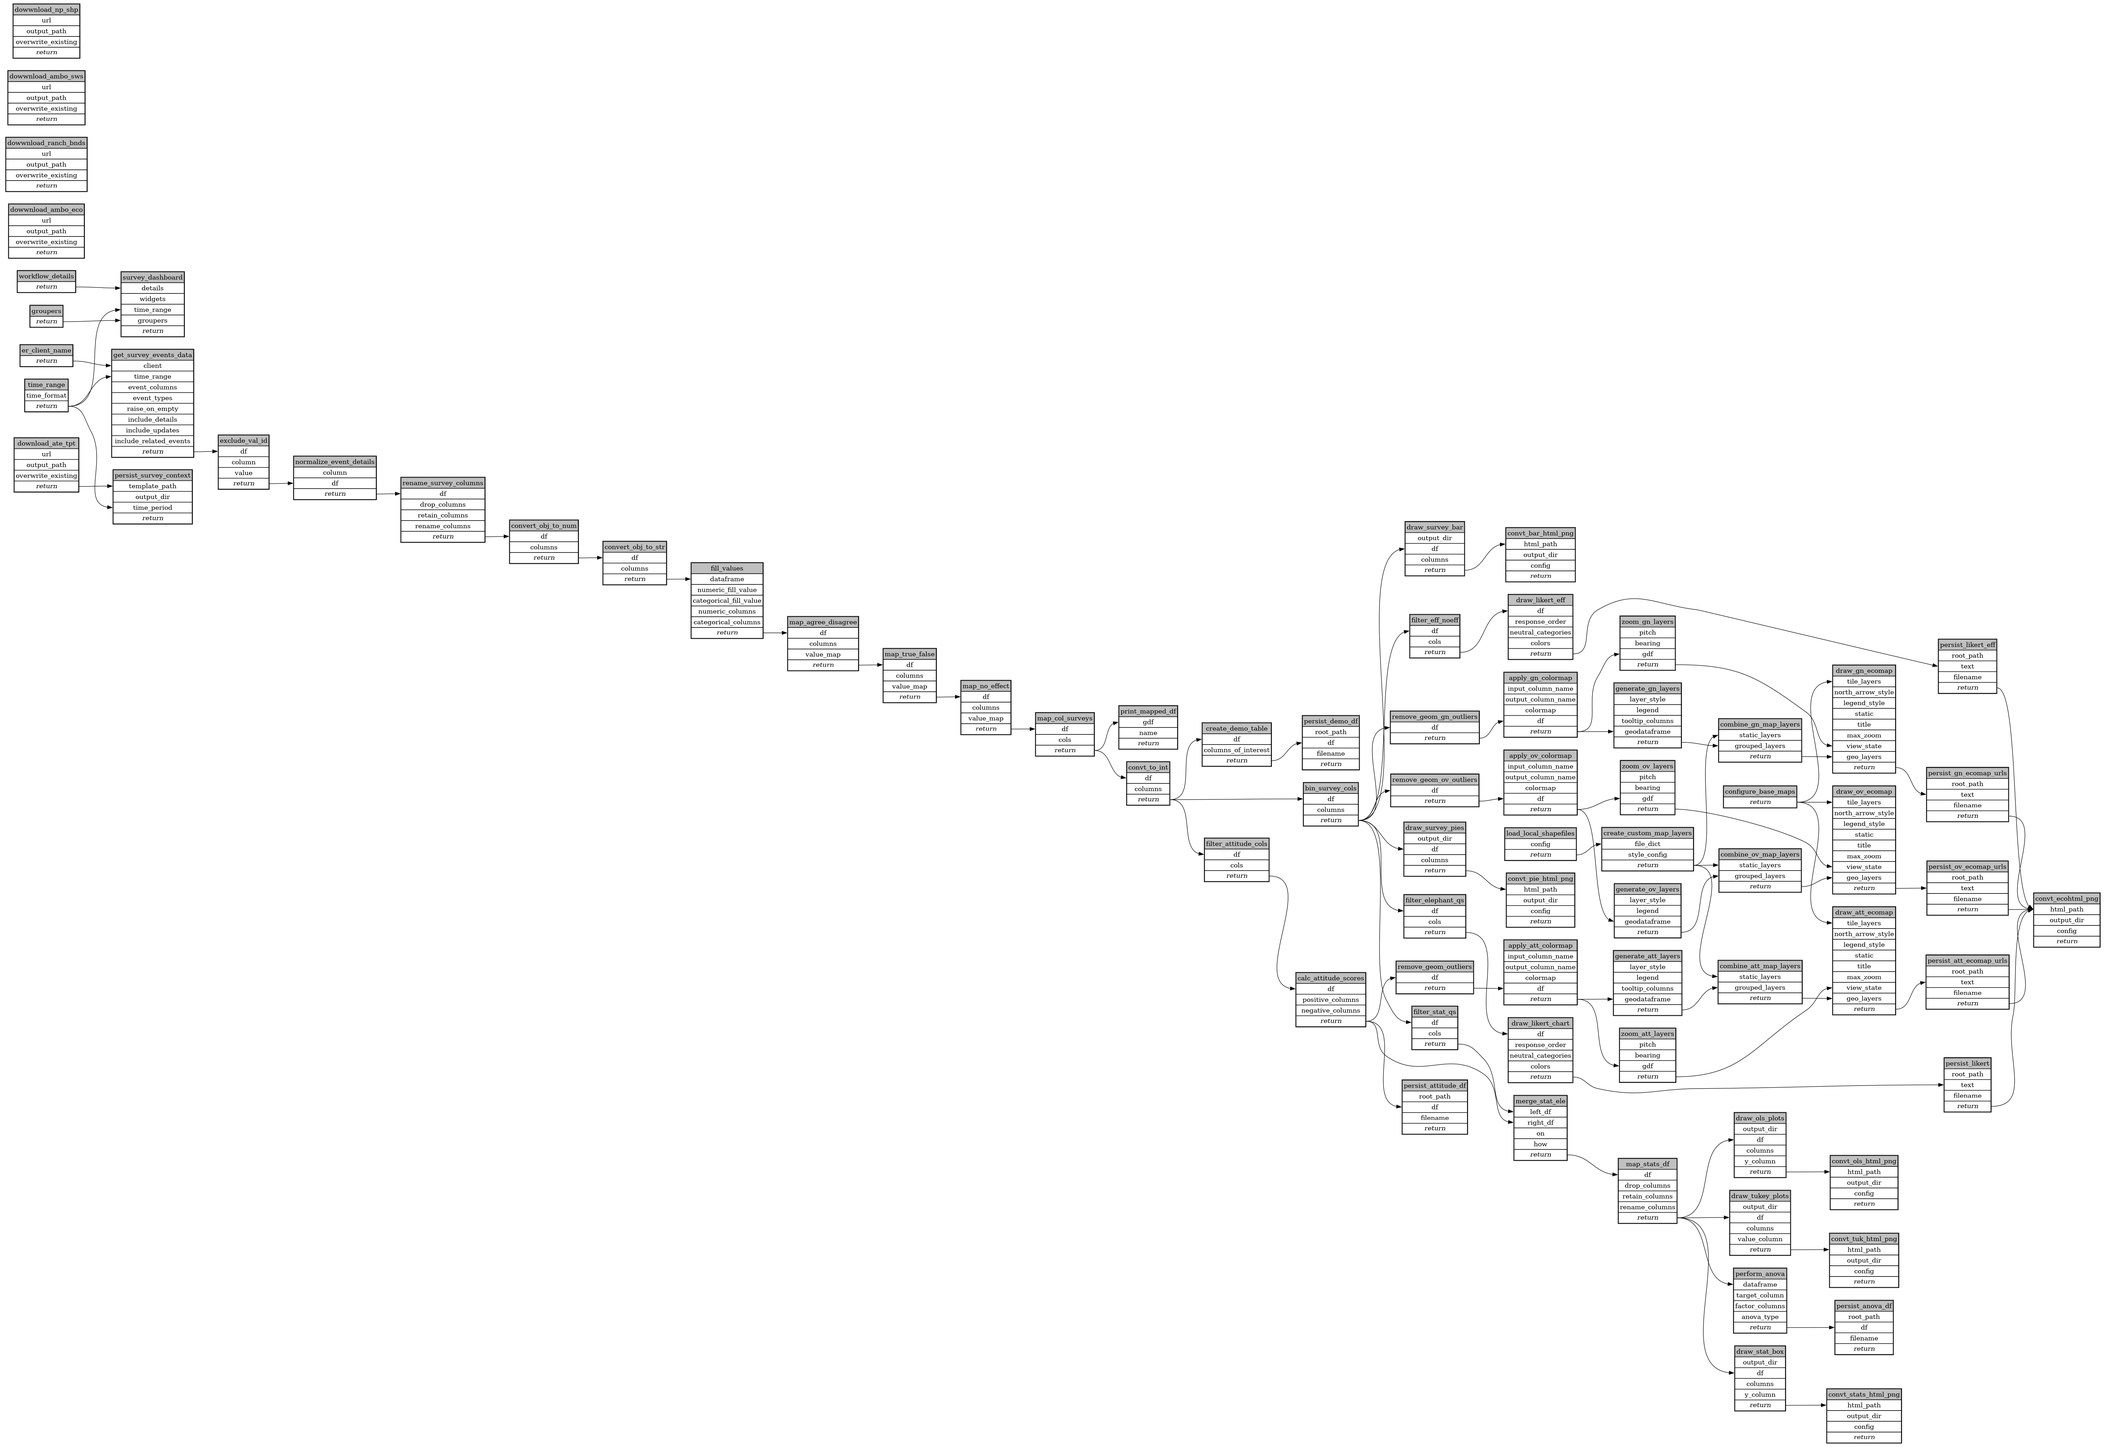
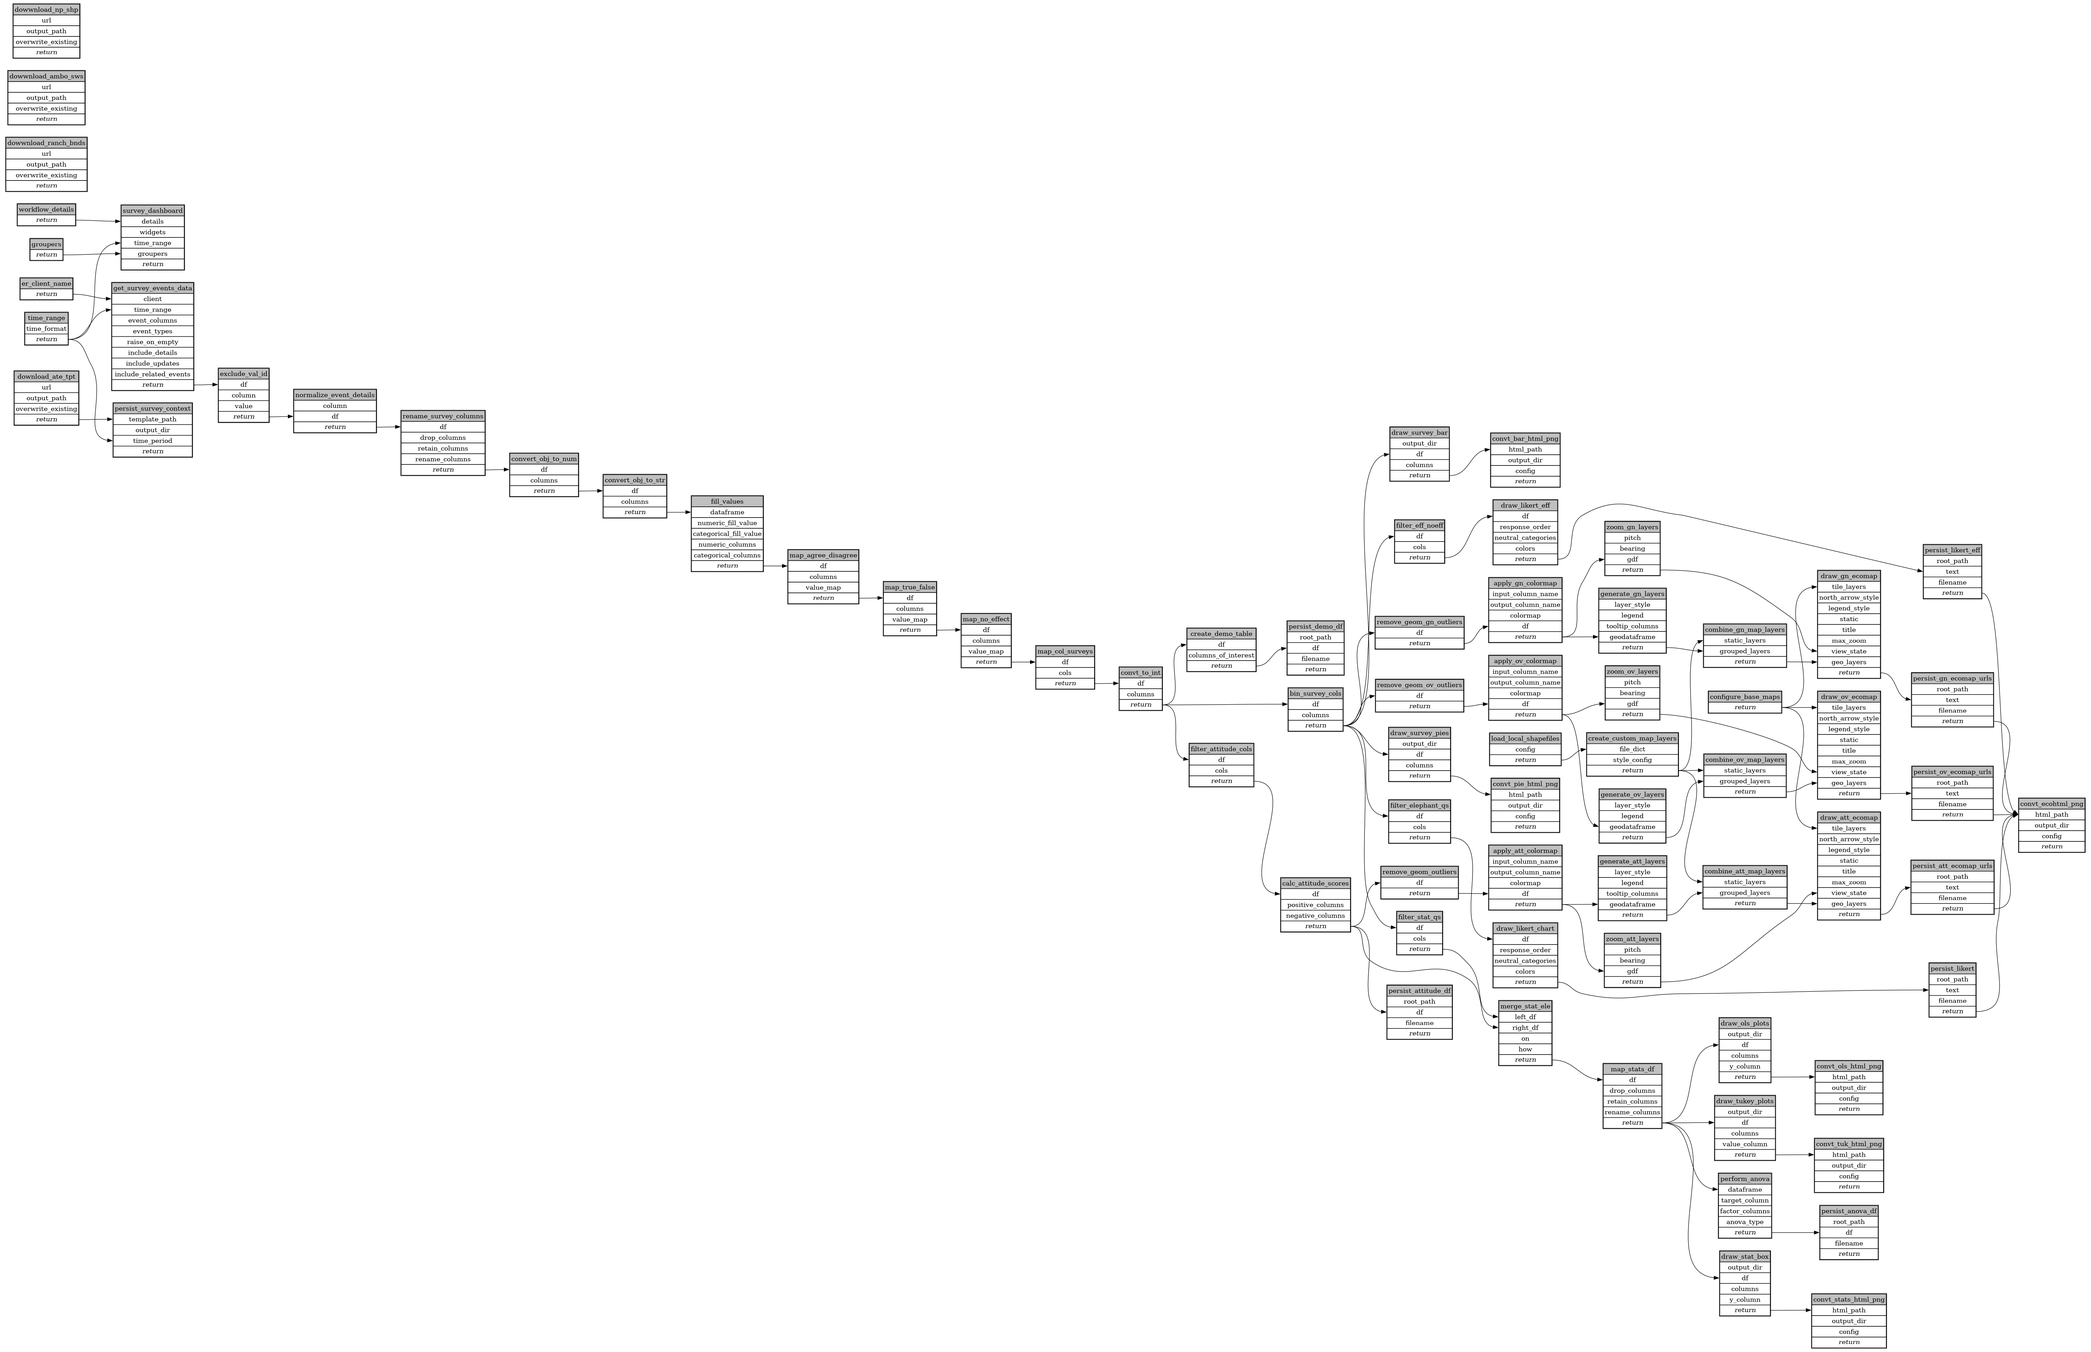
remove unnecessary print info

Changed region(s): [[0.0, 0.0, 0.9992, 1.0]]

diff --git a/workflows/ate_survey/ecoscope-workflows-ate-survey-workflow/ecoscope_workflows_ate_survey_workflow/dags/run_async.py b/workflows/ate_survey/ecoscope-workflows-ate-survey-workflow/ecoscope_workflows_ate_survey_workflow/dags/run_async.py
@@ -37,7 +37,6 @@ from ecoscope_workflows_ext_ate.tasks import (
     merge_dataframes,
     perform_anova_analysis,
     persist_survey_word,
-    view_df,
     zhtml_to_png,
 )
 from ecoscope_workflows_ext_ecoscope.tasks.io import get_events, persist_df
@@ -64,7 +63,6 @@ def main(params: Params):
         "er_client_name": [],
         "configure_base_maps": [],
         "download_ate_tpt": [],
-        "dowwnload_ambo_eco": [],
         "dowwnload_ranch_bnds": [],
         "dowwnload_ambo_sws": [],
         "dowwnload_np_shp": [],
@@ -81,7 +79,6 @@ def main(params: Params):
         "map_true_false": ["map_agree_disagree"],
         "map_no_effect": ["map_true_false"],
         "map_col_surveys": ["map_no_effect"],
-        "print_mapped_df": ["map_col_surveys"],
         "convt_to_int": ["map_col_surveys"],
         "create_demo_table": ["convt_to_int"],
         "persist_demo_df": ["create_demo_table"],
@@ -198,23 +195,11 @@ def main(params: Params):
             .handle_errors(task_instance_id="download_ate_tpt")
             .set_executor("lithops"),
             partial={
-                "url": "https://www.dropbox.com/scl/fi/1tau1alt2woo5c4efjjp3/ate_survey_template_v2.docx?rlkey=1f2h9tnp2eb9jxao70zt2xll1&st=8zjovig4&dl=0",
+                "url": "https://www.dropbox.com/scl/fi/8tw4x0a2rqagz5nb2nrvp/ate_survey_template_v5.docx?rlkey=o81prd8u97hlaeu95hnly7ze5&st=urhz1pc5&dl=0",
                 "output_path": os.environ["ECOSCOPE_WORKFLOWS_RESULTS"],
                 "overwrite_existing": False,
             }
             | (params_dict.get("download_ate_tpt") or {}),
-            method="call",
-        ),
-        "dowwnload_ambo_eco": Node(
-            async_task=download_file_and_persist.validate()
-            .handle_errors(task_instance_id="dowwnload_ambo_eco")
-            .set_executor("lithops"),
-            partial={
-                "url": "https://www.dropbox.com/scl/fi/3yvgk7va9pxm1k3qe5aue/Amboseli-Ecosystem.gpkg?rlkey=nx9udkzvghxxz76rzl5dgx922&st=14pq6124&dl=0",
-                "output_path": os.environ["ECOSCOPE_WORKFLOWS_RESULTS"],
-                "overwrite_existing": False,
-            }
-            | (params_dict.get("dowwnload_ambo_eco") or {}),
             method="call",
         ),
         "dowwnload_ranch_bnds": Node(
@@ -746,17 +731,6 @@ def main(params: Params):
                 ],
             }
             | (params_dict.get("map_col_surveys") or {}),
-            method="call",
-        ),
-        "print_mapped_df": Node(
-            async_task=view_df.validate()
-            .handle_errors(task_instance_id="print_mapped_df")
-            .set_executor("lithops"),
-            partial={
-                "gdf": DependsOn("map_col_surveys"),
-                "name": "View presently mapped df",
-            }
-            | (params_dict.get("print_mapped_df") or {}),
             method="call",
         ),
         "convt_to_int": Node(

diff --git a/workflows/ate_survey/ecoscope-workflows-ate-survey-workflow/ecoscope_workflows_ate_survey_workflow/dags/run_async_mock_io.py b/workflows/ate_survey/ecoscope-workflows-ate-survey-workflow/ecoscope_workflows_ate_survey_workflow/dags/run_async_mock_io.py
@@ -56,7 +56,6 @@ from ecoscope_workflows_ext_ate.tasks import (
     merge_dataframes,
     perform_anova_analysis,
     persist_survey_word,
-    view_df,
     zhtml_to_png,
 )
 from ecoscope_workflows_ext_ecoscope.tasks.io import persist_df
@@ -84,7 +83,6 @@ def main(params: Params):
         "er_client_name": [],
         "configure_base_maps": [],
         "download_ate_tpt": [],
-        "dowwnload_ambo_eco": [],
         "dowwnload_ranch_bnds": [],
         "dowwnload_ambo_sws": [],
         "dowwnload_np_shp": [],
@@ -101,7 +99,6 @@ def main(params: Params):
         "map_true_false": ["map_agree_disagree"],
         "map_no_effect": ["map_true_false"],
         "map_col_surveys": ["map_no_effect"],
-        "print_mapped_df": ["map_col_surveys"],
         "convt_to_int": ["map_col_surveys"],
         "create_demo_table": ["convt_to_int"],
         "persist_demo_df": ["create_demo_table"],
@@ -218,23 +215,11 @@ def main(params: Params):
             .handle_errors(task_instance_id="download_ate_tpt")
             .set_executor("lithops"),
             partial={
-                "url": "https://www.dropbox.com/scl/fi/1tau1alt2woo5c4efjjp3/ate_survey_template_v2.docx?rlkey=1f2h9tnp2eb9jxao70zt2xll1&st=8zjovig4&dl=0",
+                "url": "https://www.dropbox.com/scl/fi/8tw4x0a2rqagz5nb2nrvp/ate_survey_template_v5.docx?rlkey=o81prd8u97hlaeu95hnly7ze5&st=urhz1pc5&dl=0",
                 "output_path": os.environ["ECOSCOPE_WORKFLOWS_RESULTS"],
                 "overwrite_existing": False,
             }
             | (params_dict.get("download_ate_tpt") or {}),
-            method="call",
-        ),
-        "dowwnload_ambo_eco": Node(
-            async_task=download_file_and_persist.validate()
-            .handle_errors(task_instance_id="dowwnload_ambo_eco")
-            .set_executor("lithops"),
-            partial={
-                "url": "https://www.dropbox.com/scl/fi/3yvgk7va9pxm1k3qe5aue/Amboseli-Ecosystem.gpkg?rlkey=nx9udkzvghxxz76rzl5dgx922&st=14pq6124&dl=0",
-                "output_path": os.environ["ECOSCOPE_WORKFLOWS_RESULTS"],
-                "overwrite_existing": False,
-            }
-            | (params_dict.get("dowwnload_ambo_eco") or {}),
             method="call",
         ),
         "dowwnload_ranch_bnds": Node(
@@ -766,17 +751,6 @@ def main(params: Params):
                 ],
             }
             | (params_dict.get("map_col_surveys") or {}),
-            method="call",
-        ),
-        "print_mapped_df": Node(
-            async_task=view_df.validate()
-            .handle_errors(task_instance_id="print_mapped_df")
-            .set_executor("lithops"),
-            partial={
-                "gdf": DependsOn("map_col_surveys"),
-                "name": "View presently mapped df",
-            }
-            | (params_dict.get("print_mapped_df") or {}),
             method="call",
         ),
         "convt_to_int": Node(

diff --git a/workflows/ate_survey/ecoscope-workflows-ate-survey-workflow/ecoscope_workflows_ate_survey_workflow/dags/jupytext.py b/workflows/ate_survey/ecoscope-workflows-ate-survey-workflow/ecoscope_workflows_ate_survey_workflow/dags/jupytext.py
@@ -46,7 +46,6 @@ from ecoscope_workflows_ext_ate.tasks import (
     merge_dataframes,
     perform_anova_analysis,
     persist_survey_word,
-    view_df,
     zhtml_to_png,
 )
 from ecoscope_workflows_ext_ecoscope.tasks.io import get_events, persist_df
@@ -187,37 +186,10 @@ download_ate_tpt_params = dict(
 download_ate_tpt = (
     download_file_and_persist.handle_errors(task_instance_id="download_ate_tpt")
     .partial(
-        url="https://www.dropbox.com/scl/fi/1tau1alt2woo5c4efjjp3/ate_survey_template_v2.docx?rlkey=1f2h9tnp2eb9jxao70zt2xll1&st=8zjovig4&dl=0",
+        url="https://www.dropbox.com/scl/fi/8tw4x0a2rqagz5nb2nrvp/ate_survey_template_v5.docx?rlkey=o81prd8u97hlaeu95hnly7ze5&st=urhz1pc5&dl=0",
         output_path=os.environ["ECOSCOPE_WORKFLOWS_RESULTS"],
         overwrite_existing=False,
         **download_ate_tpt_params,
-    )
-    .call()
-)
-
-
-# %% [markdown]
-# ## Download amboseli ecosystem shapefiles
-
-# %%
-# parameters
-
-dowwnload_ambo_eco_params = dict(
-    retries=...,
-    unzip=...,
-)
-
-# %%
-# call the task
-
-
-dowwnload_ambo_eco = (
-    download_file_and_persist.handle_errors(task_instance_id="dowwnload_ambo_eco")
-    .partial(
-        url="https://www.dropbox.com/scl/fi/3yvgk7va9pxm1k3qe5aue/Amboseli-Ecosystem.gpkg?rlkey=nx9udkzvghxxz76rzl5dgx922&st=14pq6124&dl=0",
-        output_path=os.environ["ECOSCOPE_WORKFLOWS_RESULTS"],
-        overwrite_existing=False,
-        **dowwnload_ambo_eco_params,
     )
     .call()
 )
@@ -950,27 +922,6 @@ map_col_surveys = (
             "Receive livelihood benefits from elephants",
         ],
         **map_col_surveys_params,
-    )
-    .call()
-)
-
-
-# %% [markdown]
-# ## Print mapped values
-
-# %%
-# parameters
-
-print_mapped_df_params = dict()
-
-# %%
-# call the task
-
-
-print_mapped_df = (
-    view_df.handle_errors(task_instance_id="print_mapped_df")
-    .partial(
-        gdf=map_col_surveys, name="View presently mapped df", **print_mapped_df_params
     )
     .call()
 )

diff --git a/workflows/ate_survey/ecoscope-workflows-ate-survey-workflow/ecoscope_workflows_ate_survey_workflow/dags/run_sequential.py b/workflows/ate_survey/ecoscope-workflows-ate-survey-workflow/ecoscope_workflows_ate_survey_workflow/dags/run_sequential.py
@@ -36,7 +36,6 @@ from ecoscope_workflows_ext_ate.tasks import (
     merge_dataframes,
     perform_anova_analysis,
     persist_survey_word,
-    view_df,
     zhtml_to_png,
 )
 from ecoscope_workflows_ext_ecoscope.tasks.io import get_events, persist_df
@@ -97,22 +96,10 @@ def main(params: Params):
         download_file_and_persist.validate()
         .handle_errors(task_instance_id="download_ate_tpt")
         .partial(
-            url="https://www.dropbox.com/scl/fi/1tau1alt2woo5c4efjjp3/ate_survey_template_v2.docx?rlkey=1f2h9tnp2eb9jxao70zt2xll1&st=8zjovig4&dl=0",
+            url="https://www.dropbox.com/scl/fi/8tw4x0a2rqagz5nb2nrvp/ate_survey_template_v5.docx?rlkey=o81prd8u97hlaeu95hnly7ze5&st=urhz1pc5&dl=0",
             output_path=os.environ["ECOSCOPE_WORKFLOWS_RESULTS"],
             overwrite_existing=False,
             **(params_dict.get("download_ate_tpt") or {}),
-        )
-        .call()
-    )
-
-    dowwnload_ambo_eco = (
-        download_file_and_persist.validate()
-        .handle_errors(task_instance_id="dowwnload_ambo_eco")
-        .partial(
-            url="https://www.dropbox.com/scl/fi/3yvgk7va9pxm1k3qe5aue/Amboseli-Ecosystem.gpkg?rlkey=nx9udkzvghxxz76rzl5dgx922&st=14pq6124&dl=0",
-            output_path=os.environ["ECOSCOPE_WORKFLOWS_RESULTS"],
-            overwrite_existing=False,
-            **(params_dict.get("dowwnload_ambo_eco") or {}),
         )
         .call()
     )
@@ -638,17 +625,6 @@ def main(params: Params):
                 "Receive livelihood benefits from elephants",
             ],
             **(params_dict.get("map_col_surveys") or {}),
-        )
-        .call()
-    )
-
-    print_mapped_df = (
-        view_df.validate()
-        .handle_errors(task_instance_id="print_mapped_df")
-        .partial(
-            gdf=map_col_surveys,
-            name="View presently mapped df",
-            **(params_dict.get("print_mapped_df") or {}),
         )
         .call()
     )

diff --git a/workflows/ate_survey/ecoscope-workflows-ate-survey-workflow/ecoscope_workflows_ate_survey_workflow/dags/run_sequential_mock_io.py b/workflows/ate_survey/ecoscope-workflows-ate-survey-workflow/ecoscope_workflows_ate_survey_workflow/dags/run_sequential_mock_io.py
@@ -55,7 +55,6 @@ from ecoscope_workflows_ext_ate.tasks import (
     merge_dataframes,
     perform_anova_analysis,
     persist_survey_word,
-    view_df,
     zhtml_to_png,
 )
 from ecoscope_workflows_ext_ecoscope.tasks.io import persist_df
@@ -117,22 +116,10 @@ def main(params: Params):
         download_file_and_persist.validate()
         .handle_errors(task_instance_id="download_ate_tpt")
         .partial(
-            url="https://www.dropbox.com/scl/fi/1tau1alt2woo5c4efjjp3/ate_survey_template_v2.docx?rlkey=1f2h9tnp2eb9jxao70zt2xll1&st=8zjovig4&dl=0",
+            url="https://www.dropbox.com/scl/fi/8tw4x0a2rqagz5nb2nrvp/ate_survey_template_v5.docx?rlkey=o81prd8u97hlaeu95hnly7ze5&st=urhz1pc5&dl=0",
             output_path=os.environ["ECOSCOPE_WORKFLOWS_RESULTS"],
             overwrite_existing=False,
             **(params_dict.get("download_ate_tpt") or {}),
-        )
-        .call()
-    )
-
-    dowwnload_ambo_eco = (
-        download_file_and_persist.validate()
-        .handle_errors(task_instance_id="dowwnload_ambo_eco")
-        .partial(
-            url="https://www.dropbox.com/scl/fi/3yvgk7va9pxm1k3qe5aue/Amboseli-Ecosystem.gpkg?rlkey=nx9udkzvghxxz76rzl5dgx922&st=14pq6124&dl=0",
-            output_path=os.environ["ECOSCOPE_WORKFLOWS_RESULTS"],
-            overwrite_existing=False,
-            **(params_dict.get("dowwnload_ambo_eco") or {}),
         )
         .call()
     )
@@ -658,17 +645,6 @@ def main(params: Params):
                 "Receive livelihood benefits from elephants",
             ],
             **(params_dict.get("map_col_surveys") or {}),
-        )
-        .call()
-    )
-
-    print_mapped_df = (
-        view_df.validate()
-        .handle_errors(task_instance_id="print_mapped_df")
-        .partial(
-            gdf=map_col_surveys,
-            name="View presently mapped df",
-            **(params_dict.get("print_mapped_df") or {}),
         )
         .call()
     )

diff --git a/workflows/ate_survey/ecoscope-workflows-ate-survey-workflow/ecoscope_workflows_ate_survey_workflow/formdata.py b/workflows/ate_survey/ecoscope-workflows-ate-survey-workflow/ecoscope_workflows_ate_survey_workflow/formdata.py
@@ -198,20 +198,6 @@ class DownloadAteTpt(BaseModel):
     )
 
 
-class DowwnloadAmboEco(BaseModel):
-    model_config = ConfigDict(
-        extra="forbid",
-    )
-    retries: Optional[conint(ge=0)] = Field(
-        3, description="Number of retries on failure", title="Retries"
-    )
-    unzip: Optional[bool] = Field(
-        False,
-        description="Whether to unzip the file if it's a zip archive",
-        title="Unzip",
-    )
-
-
 class DowwnloadRanchBnds(BaseModel):
     model_config = ConfigDict(
         extra="forbid",
@@ -502,9 +488,6 @@ class FormData(BaseModel):
     )
     download_ate_tpt: Optional[DownloadAteTpt] = Field(
         None, title="Download ATE survey template"
-    )
-    dowwnload_ambo_eco: Optional[DowwnloadAmboEco] = Field(
-        None, title="Download amboseli ecosystem shapefiles"
     )
     dowwnload_ranch_bnds: Optional[DowwnloadRanchBnds] = Field(
         None, title="Download amboseli ranch boundaries shapefiles"

diff --git a/workflows/ate_survey/ecoscope-workflows-ate-survey-workflow/ecoscope_workflows_ate_survey_workflow/params.py b/workflows/ate_survey/ecoscope-workflows-ate-survey-workflow/ecoscope_workflows_ate_survey_workflow/params.py
@@ -198,20 +198,6 @@ class DownloadAteTpt(BaseModel):
     )
 
 
-class DowwnloadAmboEco(BaseModel):
-    model_config = ConfigDict(
-        extra="forbid",
-    )
-    retries: Optional[conint(ge=0)] = Field(
-        3, description="Number of retries on failure", title="Retries"
-    )
-    unzip: Optional[bool] = Field(
-        False,
-        description="Whether to unzip the file if it's a zip archive",
-        title="Unzip",
-    )
-
-
 class DowwnloadRanchBnds(BaseModel):
     model_config = ConfigDict(
         extra="forbid",
@@ -502,9 +488,6 @@ class Params(BaseModel):
     )
     download_ate_tpt: Optional[DownloadAteTpt] = Field(
         None, title="Download ATE survey template"
-    )
-    dowwnload_ambo_eco: Optional[DowwnloadAmboEco] = Field(
-        None, title="Download amboseli ecosystem shapefiles"
     )
     dowwnload_ranch_bnds: Optional[DowwnloadRanchBnds] = Field(
         None, title="Download amboseli ranch boundaries shapefiles"

diff --git a/workflows/ate_survey/ecoscope-workflows-ate-survey-workflow/README.md b/workflows/ate_survey/ecoscope-workflows-ate-survey-workflow/README.md
@@ -5,17 +5,17 @@
 
 ```yaml
 # fingerprint:
-artifacts_sha256_basic: bf1e472a10c49a608b85169e28626146ddac96f2bbbd2013f1dc30da504d7ea7
-artifacts_sha256_strict: 1487d960af077f07ac248aae4180c5382302b63b10b4f8cc3c18bfc096fc6084
+artifacts_sha256_basic: 879836c12e8868b3a26b0218a5adfbfa08386318ff8b033d0a79d21eb82c06eb
+artifacts_sha256_strict: d98d910b1834d2dc07a452a6162aa9565adf31c4cacaba1d1cfb540532d061b9
 installed_requirements:
 - channel: https://repo.prefix.dev/ecoscope-workflows/
   name: ecoscope-workflows-core
   version: {version: ==0.14.0}
 - channel: file:///tmp/ecoscope-workflows-custom/release/artifacts/
   name: ecoscope-workflows-ext-ate
-  version: {version: ==10000.dev27+gc29d6f3.d20251027}
-params_sha256: 10198fc0955d25c15311f864adb509281412a4f4726ac369e6d15d6ae2904824
-spec_sha256: dda429a8085831f037f1a755ad45c1e0d9aa8ad0f2249573c70f98ee33a00063
+  version: {version: ==10000.dev28+gcb981c52d.d20251027}
+params_sha256: 88e53a6bf629489d0136ab043ea7a155626d6afab4237a33405816218963e47b
+spec_sha256: 437b1d41f703250672dce1babd80e605cceb3d93822a10f2e97c260f775e2124
 
 ```
 
